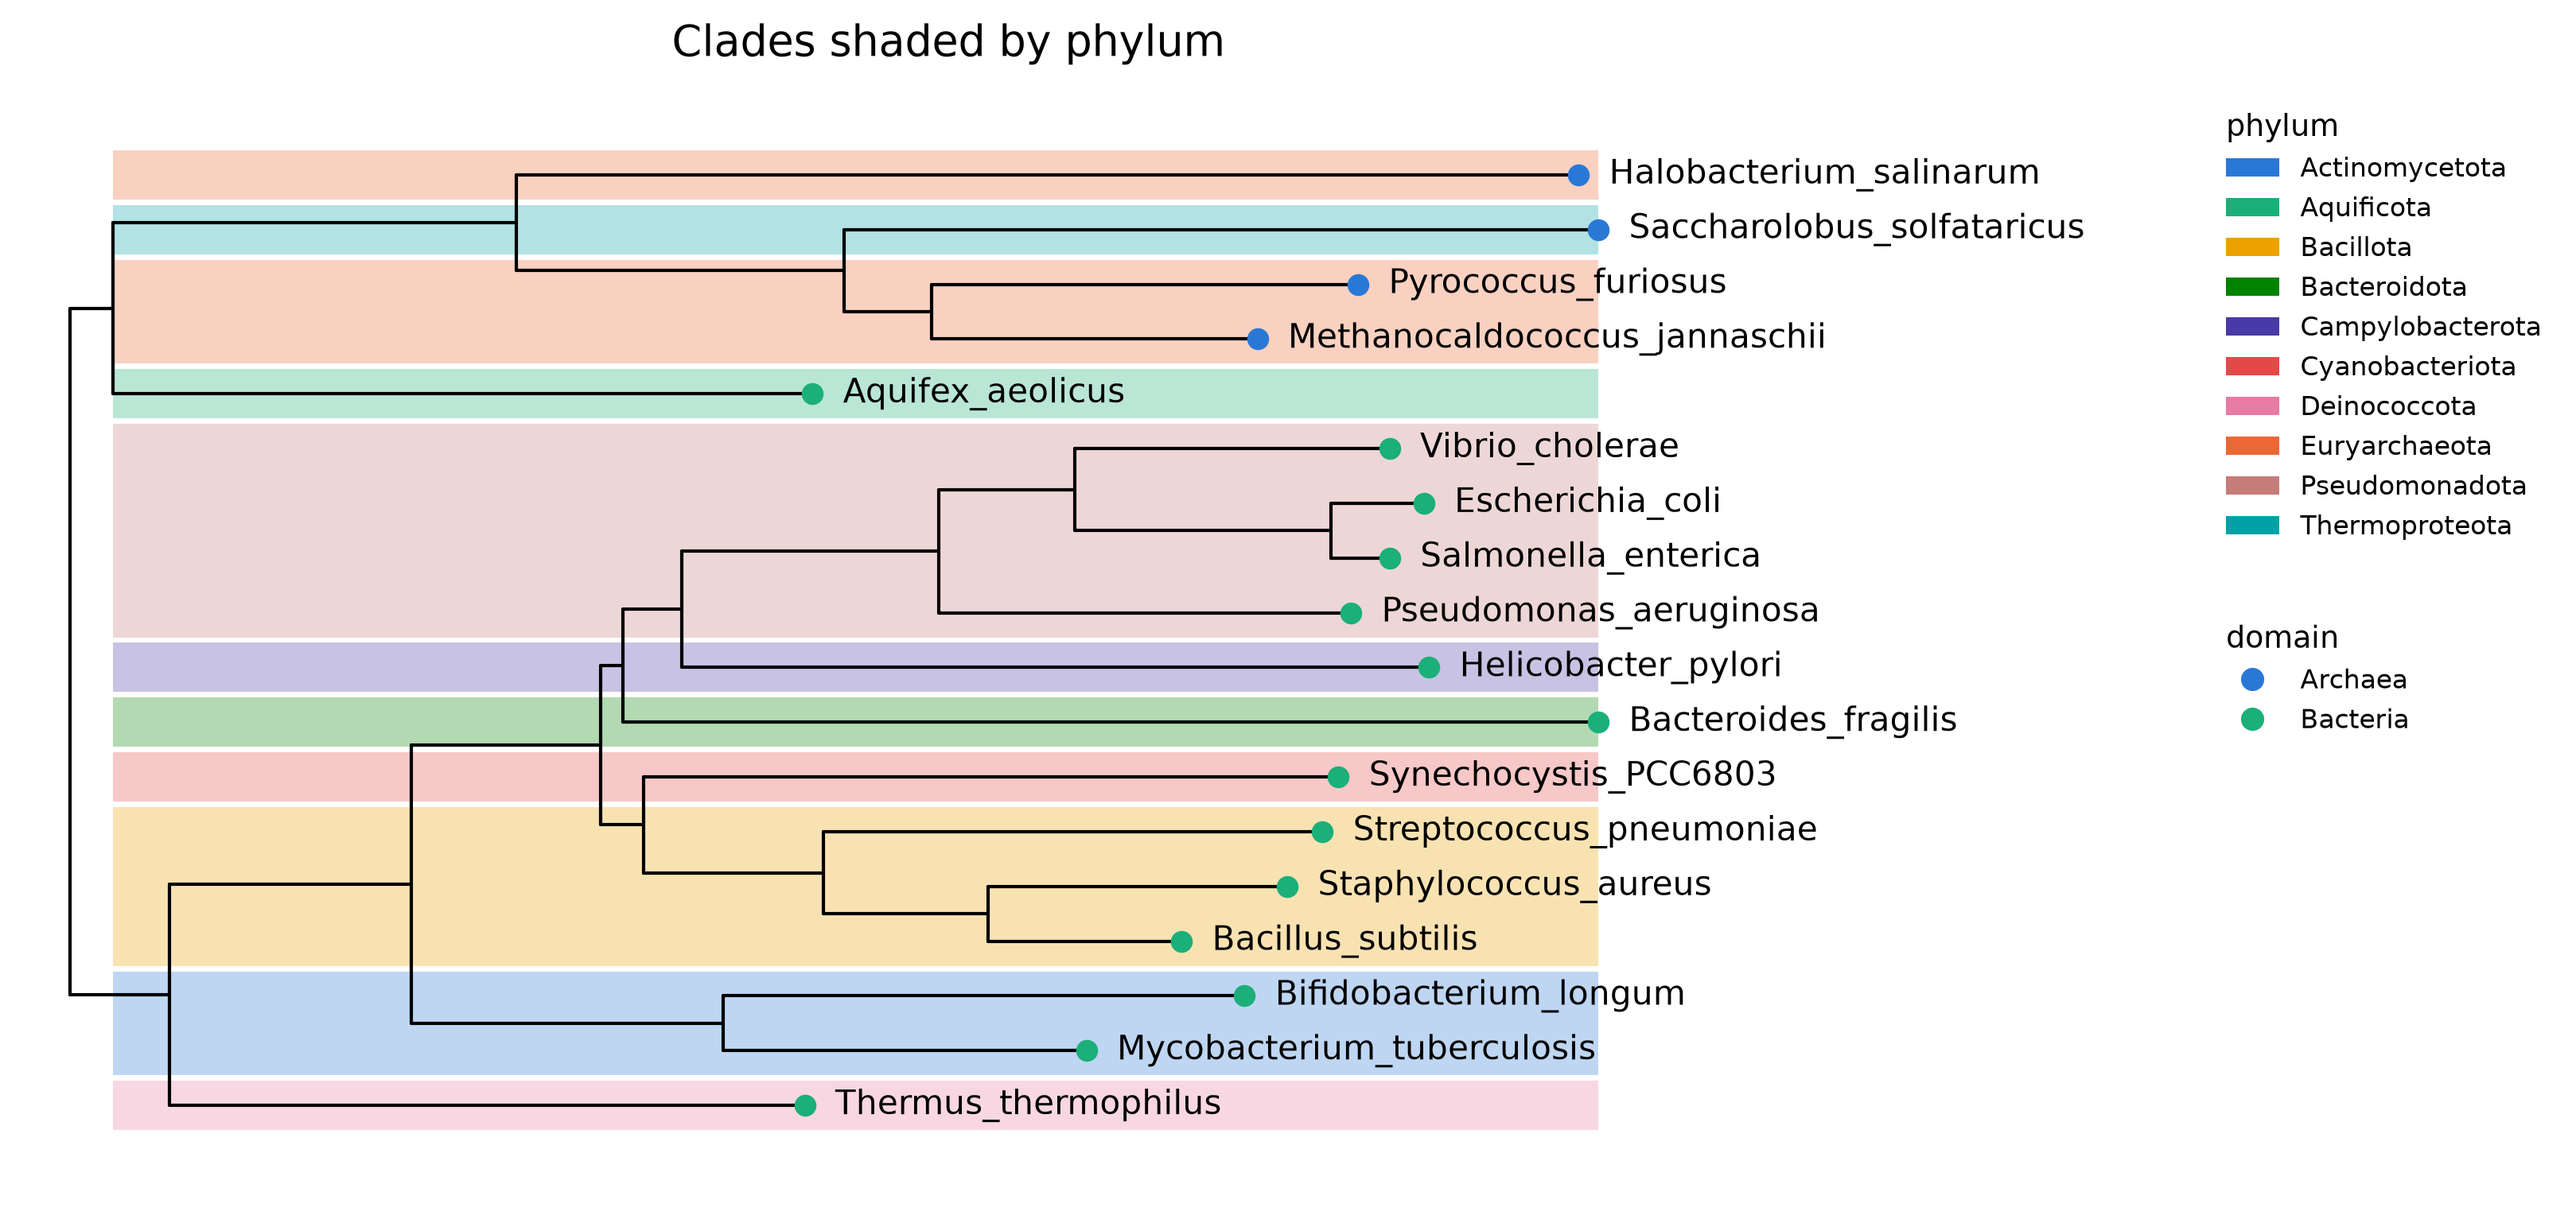
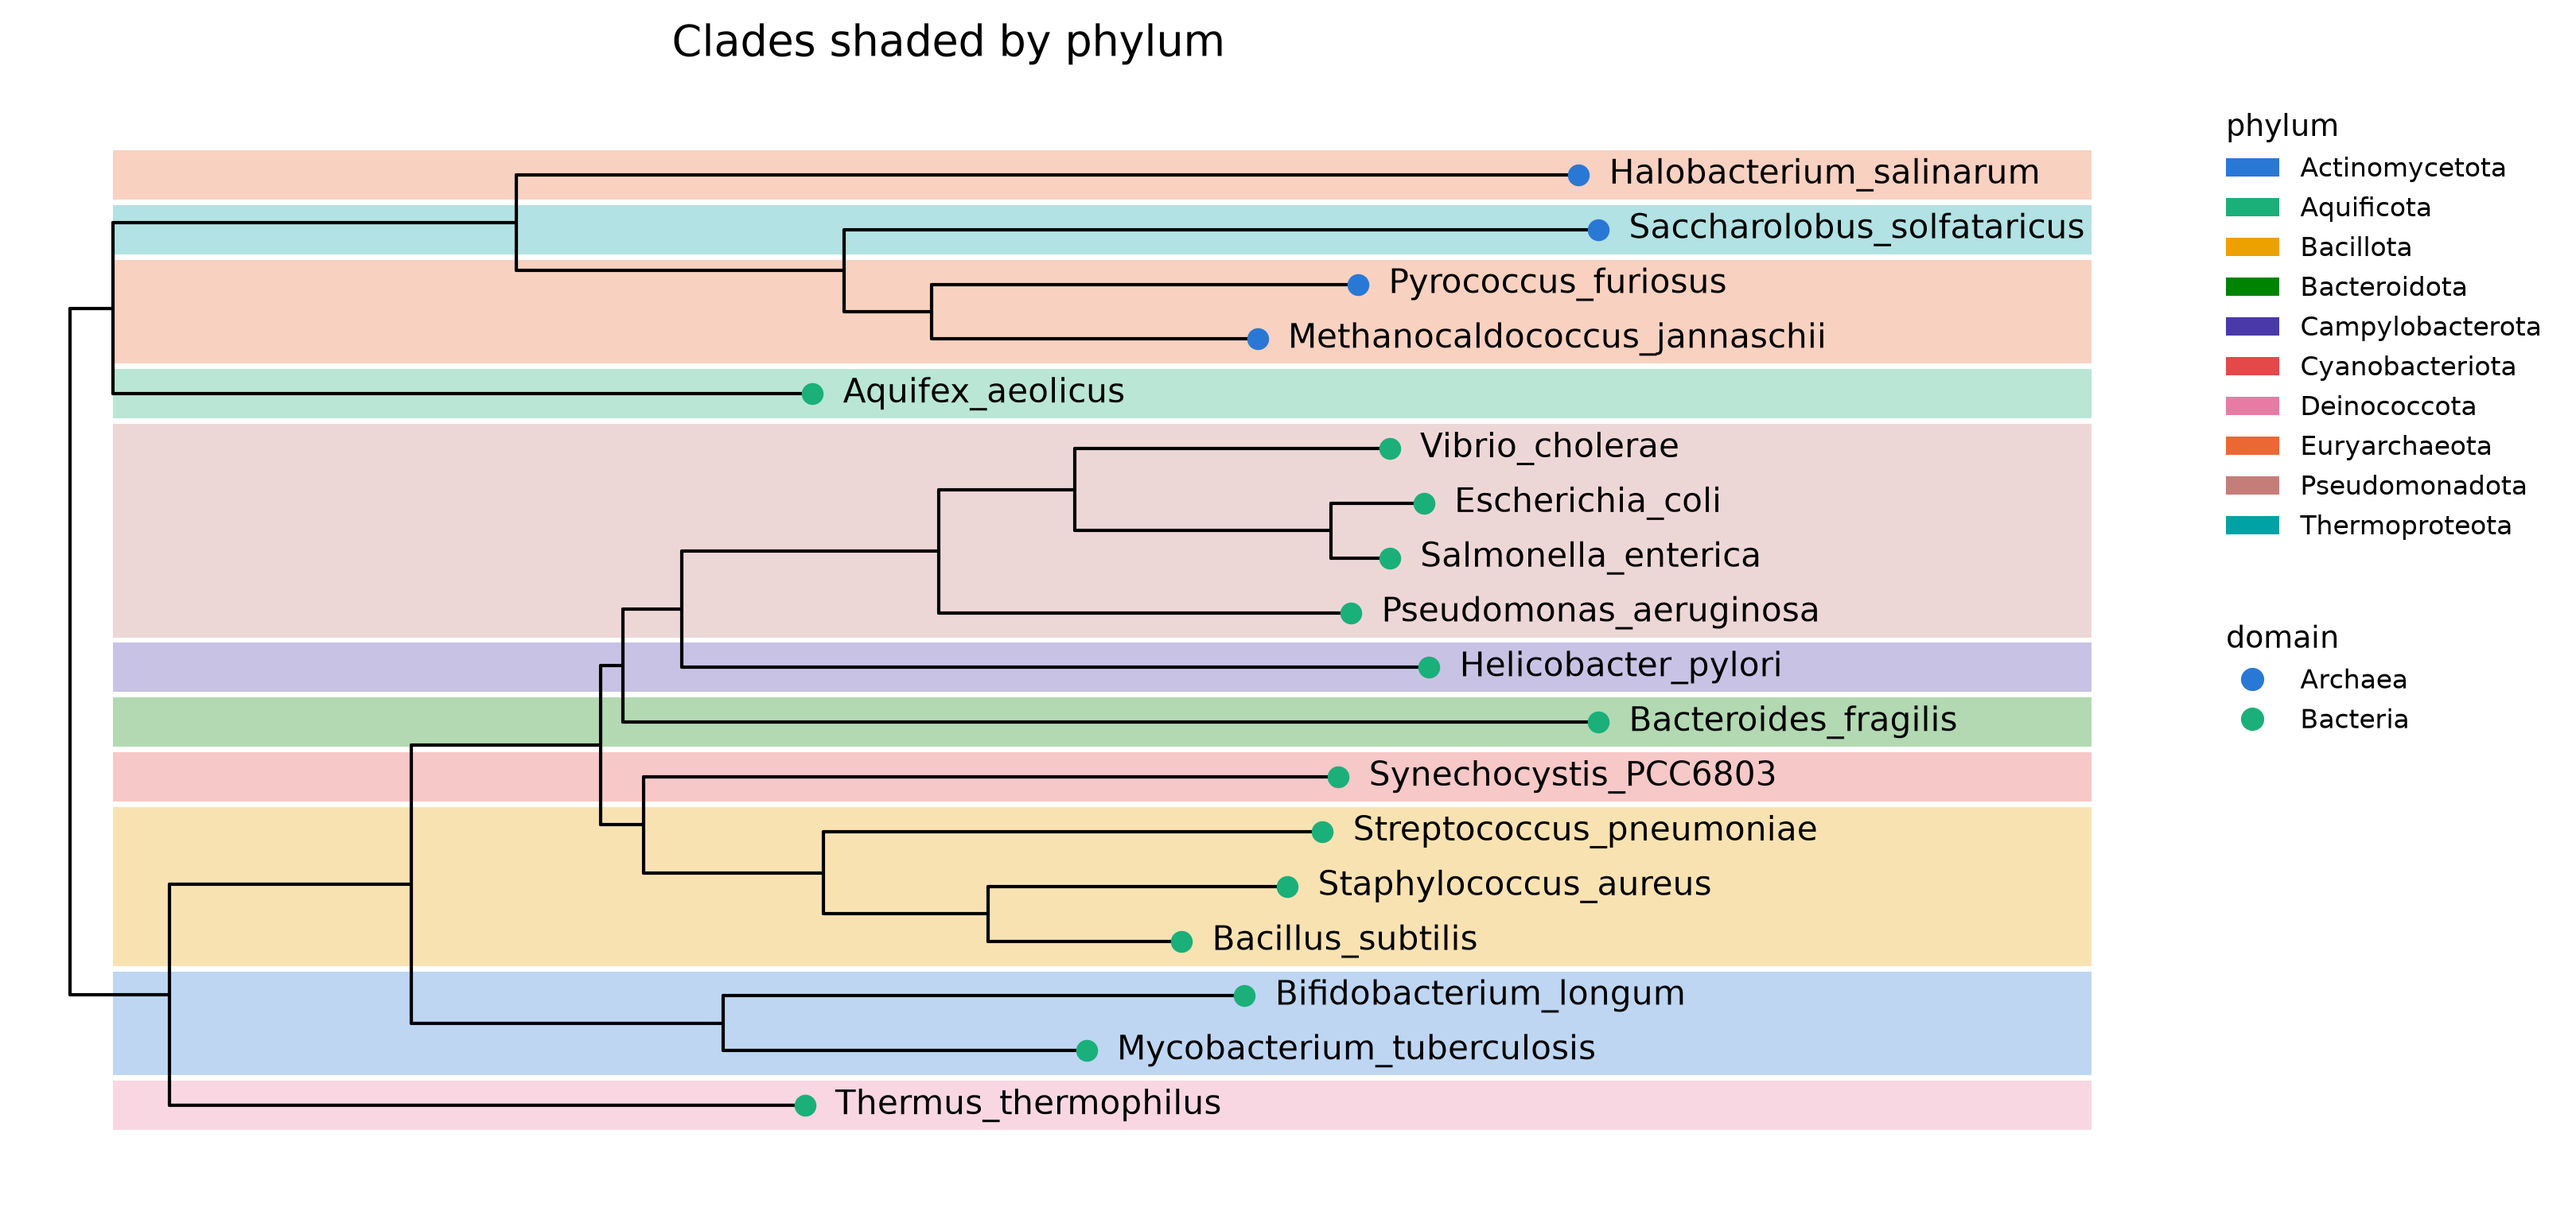
Let a shading band cover the names, and take its length as a fraction
The band stopped at the tree's tip depth, so every species name hung off the
right end of the colour it belonged to. And its length was an absolute nudge
in data units, which is not how anyone thinks about it.

highlight(reach=...) is a fraction of the way from the band's inner edge out
to where the tip labels *actually end*: 1.0 (the default) covers the whole
name, 0.7 stops seven tenths of the way, 0.5 halfway. Measured back off the
rendered figure, the drawn fraction lands within 3% of the one asked for, on
both the rectangular and the circular layout.

It has to be resolved while rendering, because the far end of "out to the end
of the names" depends on the font and the figure size and not on the tree.
The scene primitive carries the fraction and the renderer, which by then has
drawn and measured the labels, moves the outer edge; painting order does not
matter because zorder decides what sits behind what, so the bands still go
under the branches. The polar case moves an arc's radius rather than an x,
which is the same operation in the coordinates that layout draws in.

One thing that had to be handled: a band stretched out to the names reaches
past the axes box, and clipping happens while drawing -- no later bounds
change brings back what was cut. Clipping is therefore off for these, which
cannot enlarge the saved figure, since the far edge is derived from where the
labels end and they are inside the tight box already.
[…]

Changed region(s): [[0.5926, 0.123, 0.811, 0.9535]]

diff --git a/phytreon/plot/backends.py b/phytreon/plot/backends.py
@@ -11,6 +11,7 @@ phylogenetic logic lives here.
 """
 from __future__ import annotations
 
+import math
 from dataclasses import replace
 from typing import Optional
 
@@ -89,7 +90,10 @@ def render_mpl(ctx: RenderContext, title: Optional[str] = None,
 
     # split "aligned" tracks (clade bars, heatmaps) from the base plot so we
     # can place them just past the tip labels after measuring label widths.
-    base_polys = [p for p in scene.polygons if not p.align]
+    base_polys = [p for p in scene.polygons if not p.align and p.reach is None]
+    # a shape whose outer edge is given as a fraction of "out to the end of the
+    # names" cannot be placed until the names have been drawn and measured
+    reach_polys = [p for p in scene.polygons if not p.align and p.reach is not None]
     al_polys = [p for p in scene.polygons if p.align]
     base_paths = [p for p in scene.paths if not p.align]
     al_paths = [p for p in scene.paths if p.align]
@@ -159,6 +163,24 @@ def render_mpl(ctx: RenderContext, title: Optional[str] = None,
 
     if has_tracks:
         _set_limits(ax, scene, max_x, right_pad=delta + track_w + 0.04 * max_x)
+
+    # now that the names are drawn and the scale is settled, the fraction-based
+    # shapes can be resolved. Painting order does not matter -- zorder decides
+    # what ends up behind what -- so these still sit under the branches.
+    reach_patches = []
+    if reach_polys:
+        target = (_measure_radius(fig, ax, base_text) if equal
+                  else _measure_right(fig, ax, tiplabs or base_text))
+        for poly in sorted(reach_polys, key=lambda p: p.zorder):
+            patch = _draw_polygon(ax, _stretch_reach(poly, target, equal))
+            # A band stretched out to the end of the names reaches past the
+            # axes box, and clipping happens while drawing -- no later bounds
+            # change brings back what was cut. It cannot enlarge the saved
+            # figure either: its far edge is *derived* from where the labels
+            # end, and they are in the tight box already.
+            if patch is not None:
+                patch.set_clip_on(False)
+                reach_patches.append(patch)
 
     if title:
         ax.set_title(title, fontsize=13, pad=10)
@@ -240,14 +262,14 @@ def render_mpl(ctx: RenderContext, title: Optional[str] = None,
         extra.append(cax)
         cb_y = top - 0.07
 
-    fig._phytreon_extra_artists = extra + base_text + al_text
+    fig._phytreon_extra_artists = extra + base_text + al_text + reach_patches
     return fig
 
 
 # -- primitive drawing helpers ---------------------------------------------
 def _draw_polygon(ax, poly):
     from matplotlib.patches import Polygon as MplPolygon
-    ax.add_patch(MplPolygon(
+    return ax.add_patch(MplPolygon(
         list(poly.points), closed=True,
         facecolor=poly.facecolor if poly.facecolor else "none",
         edgecolor=poly.edgecolor if poly.edgecolor else "none",
@@ -328,6 +350,55 @@ def _measure_right(fig, ax, artists):
             dx = inv.transform(corner)[0]
             mx = dx if mx is None else max(mx, dx)
     return mx
+
+
+def _measure_radius(fig, ax, texts):
+    """Furthest data-space radius any of these labels reaches from the centre.
+
+    The polar counterpart of :func:`_measure_right`: a circular tree's names
+    radiate outward, so what bounds them is a radius, not an x.
+    """
+    fig.canvas.draw()
+    r = fig.canvas.get_renderer()
+    inv = ax.transData.inverted()
+    out = None
+    for t in texts:
+        bb = t.get_window_extent(renderer=r)
+        for corner in ((bb.x0, bb.y0), (bb.x1, bb.y1),
+                       (bb.x1, bb.y0), (bb.x0, bb.y1)):
+            x, y = inv.transform(corner)
+            d = math.hypot(x, y)
+            out = d if out is None else max(out, d)
+    return out
+
+
+def _stretch_reach(poly, target, polar):
+    """Move a shape's outer edge out to ``target``, scaled by its ``reach``.
+
+    A clade band is asked for as a fraction -- "colour 70% of the way out" --
+    and the far end of that is where the species names stop, which only the
+    renderer can know. Points already on the inner edge stay put; the ones on
+    the outer edge move.
+    """
+    if target is None or poly.reach is None:
+        return poly
+    pts = list(poly.points)
+    if polar:
+        radii = [math.hypot(x, y) for x, y in pts]
+        inner, outer = min(radii), max(radii)
+        want = inner + poly.reach * (target - inner)
+        moved = []
+        for (x, y), rad in zip(pts, radii):
+            if rad > 1e-12 and abs(rad - outer) < 1e-9:
+                moved.append((x / rad * want, y / rad * want))
+            else:
+                moved.append((x, y))
+    else:
+        xs = [x for x, _ in pts]
+        left, right = min(xs), max(xs)
+        want = left + poly.reach * (target - left)
+        moved = [((want if abs(x - right) < 1e-9 else x), y) for x, y in pts]
+    return replace(poly, points=moved)
 
 
 def _label_bbox_data(fig, ax, texts):

diff --git a/tests/test_treeplots.py b/tests/test_treeplots.py
@@ -3,6 +3,8 @@ bars, node-to-node connections, scale bars and DensiTree clouds."""
 import matplotlib
 matplotlib.use("Agg")
 
+import matplotlib.pyplot as plt
+
 import pytest
 
 import phytreon as pt
@@ -516,3 +518,87 @@ def test_aligning_needs_every_group_so_one_clade_still_hugs_itself():
 def test_span_rejects_a_mode_that_does_not_exist():
     with pytest.raises(ValueError, match="span must be"):
         pt.TreeFigure(_phylum_tree()).highlight(by="group", span="sideways")
+
+
+def _band_right(fig, polar=False):
+    """``(inner edge, outer edge, where the labels end)`` for the shaded bands.
+
+    ``reach`` is a fraction of the way from a band's *inner* edge out to the
+    labels, so the inner edge has to come into the arithmetic -- measuring
+    from the origin instead reports a fraction that is simply a different
+    quantity.
+    """
+    import math
+    fig.canvas.draw()
+    ax = fig.axes[0]
+    inv = ax.transData.inverted()
+    outer, inner = 0.0, float("inf")
+    for p in ax.patches:
+        if p.get_alpha() and abs(p.get_alpha() - 0.3) < 1e-6:
+            pts = p.get_path().vertices
+            vals = ([math.hypot(x, y) for x, y in pts] if polar
+                    else [x for x, _ in pts])
+            outer = max(outer, max(vals))
+            inner = min(inner, min(vals))
+    label = 0.0
+    for t in ax.texts:
+        bb = t.get_window_extent(fig.canvas.get_renderer())
+        for c in ((bb.x0, bb.y0), (bb.x1, bb.y1), (bb.x1, bb.y0), (bb.x0, bb.y1)):
+            x, y = inv.transform(c)
+            label = max(label, math.hypot(x, y) if polar else x)
+    return inner, outer, label
+
+
+def test_a_full_reach_band_covers_the_whole_species_name():
+    # the point of reach=1.0: the colour runs out past the longest name, so no
+    # name hangs off the end of the band it belongs to
+    tr = _phylum_tree()
+    fig = (pt.TreeFigure(tr).highlight(by="group", reach=1.0)
+           .tip_labels().draw())
+    _, outer, label = _band_right(fig)
+    plt.close(fig)
+    assert outer >= label - 1e-6, "band stops %.3f short of the names" % (
+        label - outer)
+
+
+def test_reach_is_a_fraction_of_the_way_out_to_the_names():
+    tr = _phylum_tree()
+    seen = {}
+    for frac in (0.5, 0.7, 1.0):
+        fig = (pt.TreeFigure(tr).highlight(by="group", reach=frac)
+               .tip_labels().draw())
+        inner, outer, label = _band_right(fig)
+        seen[frac] = (outer - inner) / (label - inner)
+        plt.close(fig)
+    assert seen[0.5] < seen[0.7] < seen[1.0]
+    for frac, got in seen.items():
+        assert abs(got - frac) < 0.03, "asked %.1f, drew %.2f" % (frac, got)
+
+
+def test_reach_works_on_a_circular_tree():
+    tr = _phylum_tree()
+    fig = (pt.TreeFigure(tr, layout="circular").highlight(by="group", reach=1.0)
+           .tip_labels().draw())
+    _, outer, label = _band_right(fig, polar=True)
+    plt.close(fig)
+    assert outer >= label - 1e-6
+
+
+def test_a_stretched_band_is_not_clipped_away():
+    # clipping happens while drawing, so a band reaching past the axes box
+    # would be cut with no way to recover it afterwards
+    tr = _phylum_tree()
+    fig = (pt.TreeFigure(tr).highlight(by="group", reach=1.0)
+           .tip_labels().draw())
+    fig.canvas.draw()
+    bands = [p for p in fig.axes[0].patches
+             if p.get_alpha() and abs(p.get_alpha() - 0.3) < 1e-6]
+    assert bands and not any(p.get_clip_on() for p in bands)
+    plt.close(fig)
+
+
+def test_reach_rejects_a_nonsense_fraction():
+    tr = _phylum_tree()
+    for bad in (0.0, -0.5, 3.0):
+        with pytest.raises(ValueError, match="reach"):
+            pt.TreeFigure(tr).highlight(by="group", reach=bad)

diff --git a/phytreon/plot/elements.py b/phytreon/plot/elements.py
@@ -363,6 +363,13 @@ class _Highlight(_Element):
     each in its own colour, with a legend. One call for the whole figure rather
     than one per clade, and a reader can tell which shade means what.
 
+    ``reach`` is how far out the colour goes, as a fraction of the distance
+    from the band's inner edge to where the tip labels actually end: ``1.0``
+    (the default) covers the whole name, ``0.7`` stops seven tenths of the way,
+    ``0.5`` halfway. It is resolved while rendering, because how much room a
+    name takes depends on the font and the figure size rather than on the tree
+    -- so the same number gives the same *proportion* whatever the figure.
+
     A group whose taxa are not monophyletic is drawn as several bands, one per
     run of adjacent tips, rather than as one band over their common ancestor.
     The ancestor of a scattered group reaches down over other groups' taxa, so
@@ -374,11 +381,15 @@ class _Highlight(_Element):
     def __init__(self, node: Optional[Node] = None, taxa=None, by=None,
                  fill="#fdbf6f", alpha: float = 0.3, extend: float = 0.0,
                  palette: str = "curated", order=None, baseline=None,
-                 span: str = "aligned"):
+                 span: str = "aligned", reach: float = 1.0):
         if span not in ("clade", "aligned", "full"):
             raise ValueError("span must be 'clade', 'aligned' or 'full', "
                              "not %r" % (span,))
+        if not 0.0 < reach <= 1.5:
+            raise ValueError("reach is a fraction of the way out to the end of "
+                             "the tip labels; got %r" % (reach,))
         self.span = span
+        self.reach = reach
         self.node = node
         self.taxa = taxa
         self.by = by
@@ -495,14 +506,16 @@ class _Highlight(_Element):
             pts = lay._arc(outer, a0 - da, a1 + da)
             pts += lay._arc(inner, a1 + da, a0 - da)
             ctx.scene.add(Polygon(pts, facecolor=fill, edgecolor=None,
-                                  alpha=self.alpha, zorder=0))
+                                  alpha=self.alpha, zorder=0,
+                                  reach=self.reach))
         else:
             rows = [lf.y for lf in leaves]
             x1 = lay.max_x + self.extend
             y0, y1 = min(rows) - 0.45, max(rows) + 0.45
             pts = [(x0, y0), (x1, y0), (x1, y1), (x0, y1)]
             ctx.scene.add(Polygon(pts, facecolor=fill, edgecolor=None,
-                                  alpha=self.alpha, zorder=0, rounded=True))
+                                  alpha=self.alpha, zorder=0, rounded=True,
+                                  reach=self.reach))
 
 
 # --------------------------------------------------------------------------

diff --git a/phytreon/scene.py b/phytreon/scene.py
@@ -80,6 +80,12 @@ class Polygon:
     label: Optional[str] = None         # hover text
     align: bool = False                 # shift right to clear the tip-label band
     rounded: bool = False               # draw as a soft rounded rectangle
+    #: How far out to stretch this shape's outer edge, as a fraction of the
+    #: distance from its inner edge to where the tip labels actually end.
+    #: ``None`` leaves the points alone. The renderer resolves it, because only
+    #: the renderer knows how much room a name takes: that depends on the font
+    #: and the figure size, not on the tree.
+    reach: Optional[float] = None
 
 
 @dataclass

diff --git a/CHANGELOG.md b/CHANGELOG.md
@@ -16,6 +16,14 @@ All notable changes to phytreon are documented here. Format loosely follows
   would colour in tips that do not belong to the group — tidier, and false.
   The shades stay pale enough to read a name on (measured: the darkest leaves
   black text at 12.5:1).
+  - `reach` decides how far out the colour goes, as a fraction of the distance
+    from the band's inner edge to **where the tip labels actually end**:
+    `1.0` (the default) covers the whole species name, `0.7` stops seven tenths
+    of the way, `0.5` halfway. It is resolved during rendering, because how
+    much room a name takes depends on the font and the figure size rather than
+    on the tree — so the same number gives the same *proportion* in any figure.
+    Measured back off the rendered result, the drawn fraction matches the
+    requested one to within 3%.
   - `span` decides where the bands start. `"aligned"` (the default) lines every
     left edge up at the shallowest clade's own start: flush, and no band
     reaches further rootward than the drawing already did somewhere, so the
